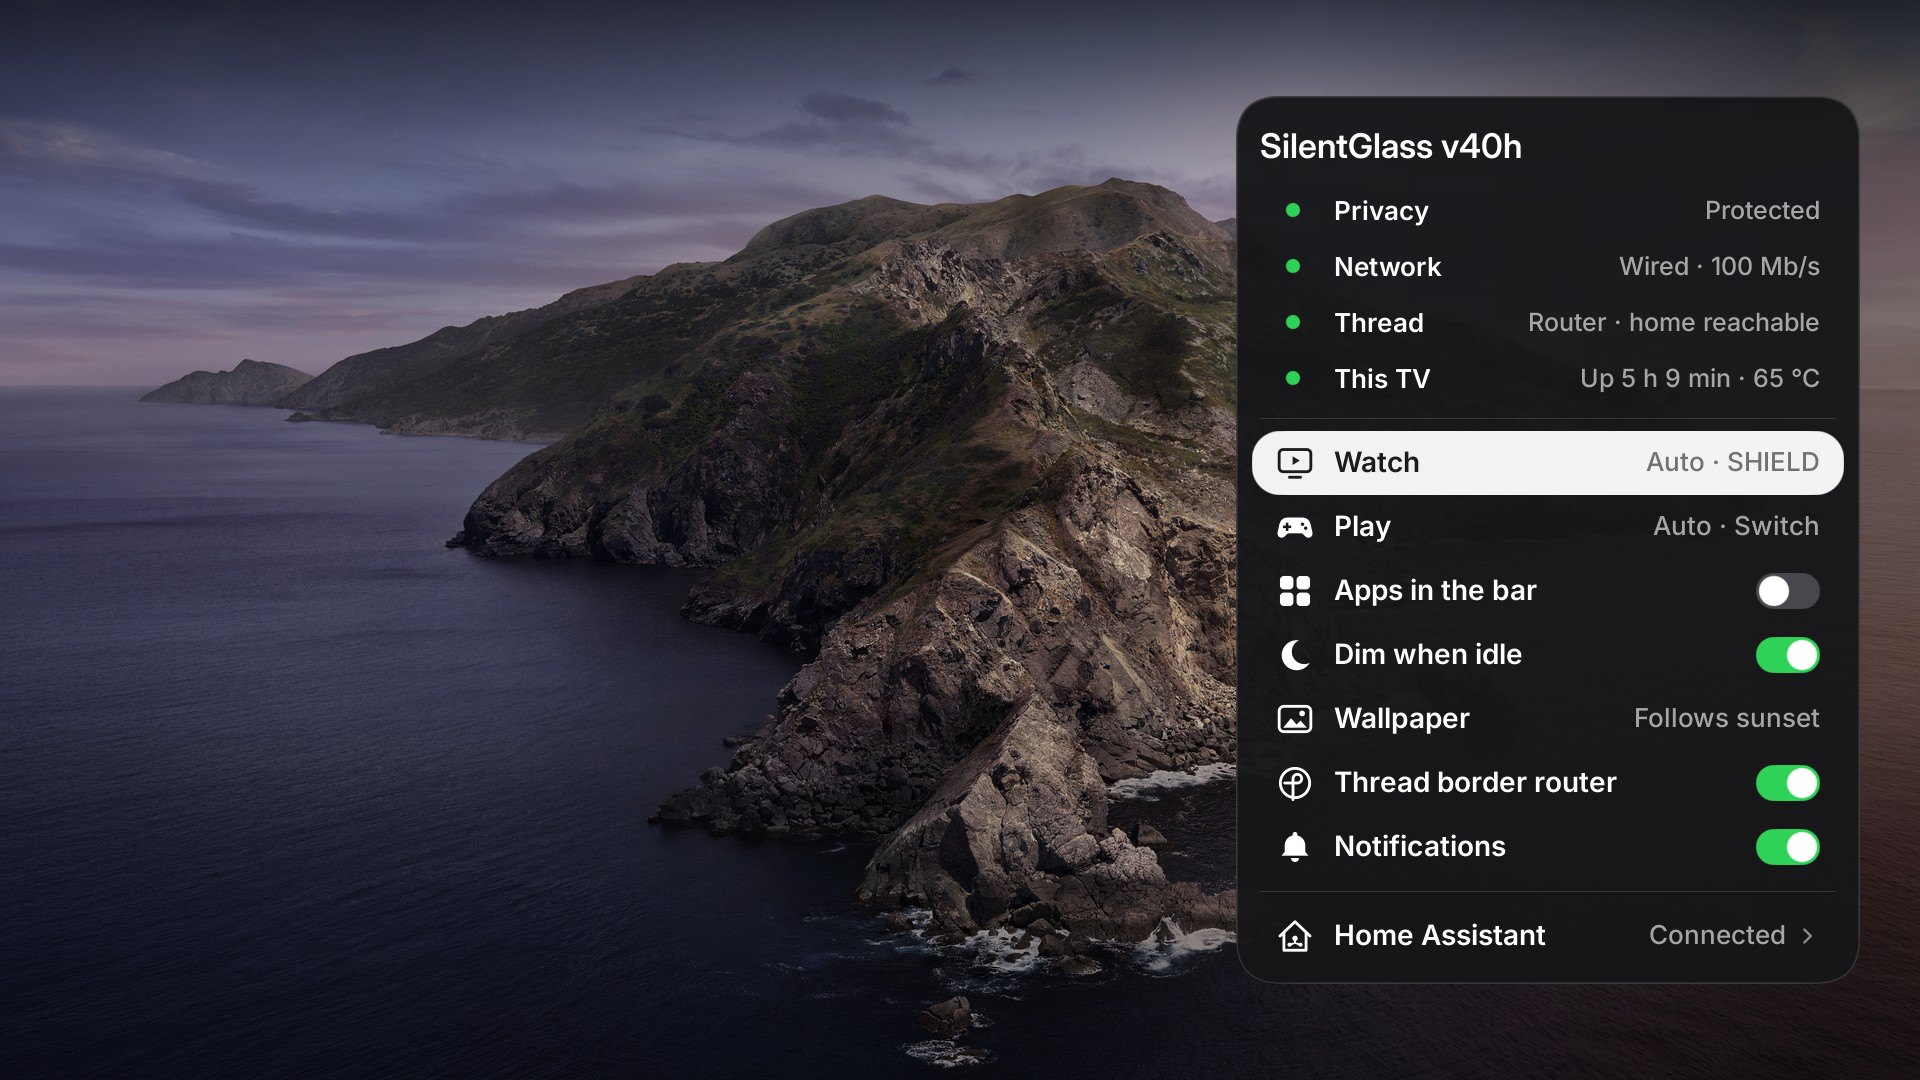
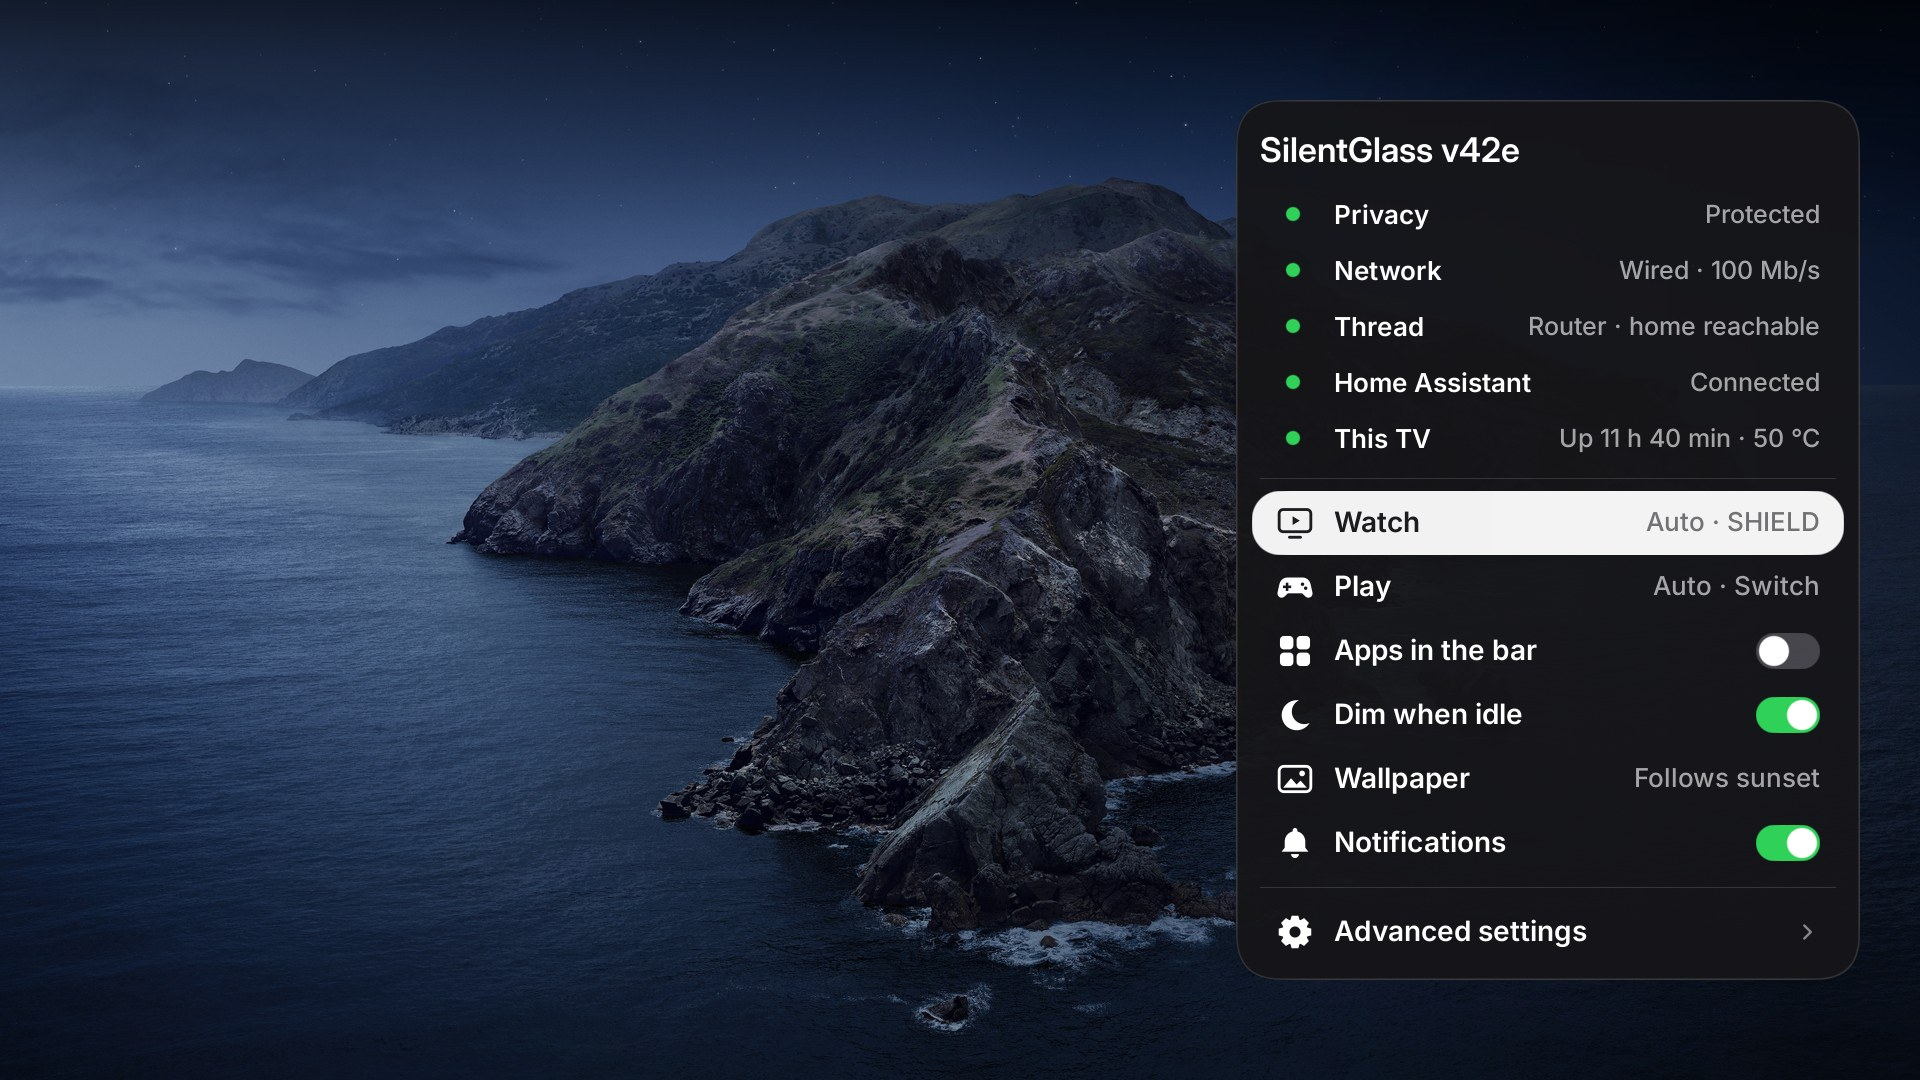
Docs: Thread switch and Home Assistant status moved (Info > Advanced settings); v42e screenshots
- Thread border router docs: the switch is on the phone page and in Home Assistant
- README / device record: Info shows Home Assistant status; Advanced settings opens the phone page
- otbr-join.sh message points at the new switch
- Info screenshot from the TV (v42e); setup mockup titled Advanced settings, sheet without the bar

diff --git a/tools/overlay_mockup.py b/tools/overlay_mockup.py
@@ -169,12 +169,13 @@ def controls(focus=0):
 def info(focus=0):
     green, grey = "#30d158", "#8e8e93"
     rows = [("d", "", "Privacy", "Protected", green), ("d", "", "Network", "Wired · 1 Gb/s", green),
-            ("d", "", "Thread", "Router · home reachable", green), ("d", "", "This TV", "Up 3 h · 41 °C", green), "hr",
+            ("d", "", "Thread", "Router · home reachable", green), ("d", "", "Home Assistant", "Connected", green),
+            ("d", "", "This TV", "Up 3 h · 41 °C", green), "hr",
             ("v", "tv", "Watch", "Auto · SHIELD"), ("v", "gamecontroller", "Play", "Auto · Nintendo Switch"),
             ("t", "apps", "Apps in the bar", False), ("t", "moon", "Dim when idle", True), ("v", "picture", "Wallpaper", "Follows sunset"),
-            ("t", "thread", "Thread border router", True), ("t", "bell", "Notifications", True), "hr",
-            ("a", "homeassistant", "Home Assistant", "Connected")]
-    return panel(rows, focus, title=("SilentGlass", "v40a · nothing sent anywhere"), opaque=True)
+            ("t", "bell", "Notifications", True), "hr",
+            ("a", "gear", "Advanced settings", "")]
+    return panel(rows, focus, title=("SilentGlass", "v42e · nothing sent anywhere"), opaque=True)
 
 
 def setup_sheet(qr):
@@ -185,11 +186,11 @@ def setup_sheet(qr):
             f'<div class="glass" style="left:{x}px;top:{y}px;width:{w}px;height:{h}px;border-radius:44px;background:rgba(22,22,26,.96)">'
             f'<div style="position:absolute;left:48px;top:48px;width:340px;height:340px;border-radius:28px;background:#fff;display:flex;align-items:center;justify-content:center">{qr_img}</div>'
             f'<div style="position:absolute;left:430px;top:52px;right:48px">'
-            f'<div style="font-family:QID;font-size:44px;line-height:1.1">Set up Home Assistant</div>'
+            f'<div style="font-family:QID;font-size:44px;line-height:1.1">Advanced settings</div>'
             f'<div style="font-size:27px;opacity:.7;margin-top:18px;line-height:1.35">Scan with your phone, or open<br><b style="opacity:1;font-weight:600">192.168.1.50:7680</b> and enter</div>'
             f'<div style="font-family:QID;font-size:72px;letter-spacing:10px;margin-top:22px">482 913</div></div>'
             f'<div style="position:absolute;left:48px;right:48px;bottom:40px;display:flex;align-items:center;gap:14px;font-size:26px;opacity:.85">'
-            f'<span style="width:14px;height:14px;border-radius:7px;background:#ff9f0a"></span>Waiting for your phone…'
+            f'<span style="width:14px;height:14px;border-radius:7px;background:#30d158"></span>Saved. Connected to your broker.'
             f'<span style="margin-left:auto;opacity:.6">Back to close</span></div></div>')
 
 
@@ -237,7 +238,7 @@ def main():
              "bar": bar(0),
              "info": bar(6) + info(5),
              "backdrop": backdrop() + bar(0),
-             "setup": bar(6) + setup_sheet(ROOT / ".local/overlay-mock/qr.svg"), "inputs": bar(3) + inputs_pop(), "apps": bar(5) + apps_pop(apps), "controls": controls(0)}
+             "setup": setup_sheet(ROOT / ".local/overlay-mock/qr.svg"), "inputs": bar(3) + inputs_pop(), "apps": bar(5) + apps_pop(apps), "controls": controls(0)}
     for name, body in pages.items():
         (out / f"{name}.html").write_text(page(name, body, bg))
         subprocess.run(["chromium", "--headless=new", "--disable-gpu", "--no-sandbox", "--hide-scrollbars",

diff --git a/devices/s90d/thread-border-router.md b/devices/s90d/thread-border-router.md
@@ -14,8 +14,8 @@ Status on the tested TV (firmware in [README.md](README.md)): router in the home
 upstream OTBR, LAN -> Thread forwarding proven with a real packet, survives reboots (verified across
 several owner reboots) and **through standby** since the standby fix in section 6 (before it, the radio lost power
 whenever the TV was switched off, so the TV only routed while it was on). Thread status
-is on SilentGlass Home's **Info** tab ("Home network: Connected / Forwarding off"), with a switch to stop and start it
-(section 5).
+is on SilentGlass's **Info** panel ("Router · home reachable"); the switch to stop and start it is on the phone's
+Advanced settings page and in Home Assistant (section 5).
 
 ## 1. Radio firmware (once, owner approval)
 
@@ -68,7 +68,7 @@ iptables) and then:
 | `quiet-otbr-cpcd` | waits until Samsung's boot-time `iot-hub-control-setup.service` has run and finished, recreates `/tmp/iot_factory_data`, runs the hub `cpcd` (921600, socket `/dev/shm/cpcd/cpcd_0`) |
 | `quiet-otbr-agent` | waits for the cpcd socket, runs the private agent `-s -B <backbone> -d 4 "spinel+cpc://cpcd_0?iid=2"` (auto-attaches to the saved network); the backbone is the default-route interface (`eth0` wired, `wlan0` Wi-Fi), waited for up to 2 min |
 | `quiet-otbr-forward` | waits for `wpan0` and Samsung's `matter-setup.path`, then touches `/tmp/matter_setup` every 10 s until IPv6 forwarding is on |
-| `quiet-otbr-switch.path` / `.service` | SilentGlass Home's Info switch (section 5): applies a flip at once |
+| `quiet-otbr-switch.path` / `.service` | the border router switch (section 5): applies a flip at once |
 
 Why each wait exists:
 
@@ -102,7 +102,7 @@ cat ~/.config/quiet-tizen/thread.env device/thread-border-router/otbr-join.sh | 
 
 It refuses to replace an attached network without `FORCE=1` and never echoes the dataset. Do not add a prefix:
 the TV favors the existing OMR prefix. It attaches as a child and becomes a router within ~2 minutes. The network
-is saved in `/opt/var/lib/thread`, so every later start (boot or the Info switch) rejoins by itself.
+is saved in `/opt/var/lib/thread`, so every later start (boot or the switch) rejoins by itself.
 
 ## 4. Verify (mesh membership is not border routing)
 
@@ -113,15 +113,17 @@ is saved in `/opt/var/lib/thread`, so every later start (boot or the Info switch
   `ip6tables -nvx -L OTBR_FORWARD_CHAIN` eth0 -> wpan0 counter rise. `ot-ctl ping` from the TV only proves
   mesh reachability.
 
-## 5. Info page switch (SilentGlass Home)
+## 5. The on/off switch
 
-SilentGlass Home's Info page shows **Thread border router** with a switch, only on TVs where these units are installed.
+On TVs where these units are installed, the phone's **Advanced settings** page (Info > Advanced settings) shows a
+**Border router** switch, and Home Assistant gets `switch.<tv>_thread_border_router`. Both go through the
+SilentGlass bridge (unit comments still call it the Info switch, where it used to be):
 
-- Off: SilentGlass Home creates `thread-off` in its own data directory
+- Off: the bridge creates `thread-off` in SilentGlass's data directory
   (`/opt/usr/home/owner/apps_rw/com.samsung.tv.bixby-promotion/data`, persistent; the owner's systemd may read it)
   and rewrites `thread-switch`. `quiet-otbr-switch.path` sees the rewrite and stops forward, agent, then cpcd
   (under 2 s). The TV leaves the mesh as a router; other border routers carry it.
-- On: SilentGlass Home deletes the marker and rewrites `thread-switch`; the units start and rejoin the saved network
+- On: the bridge deletes the marker and rewrites `thread-switch`; the units start and rejoin the saved network
   (router again in ~10 s when the mesh still remembers it, up to ~2 min otherwise).
 - Reboots: every daemon has `ConditionPathExists=!.../thread-off`, so the choice holds at boot and a manual
   start while off is skipped (a skipped condition never triggers `Restart=`).
@@ -145,7 +147,7 @@ until the TV is switched on again. Two separate things do it, both found on the 
   (`org.tizen.system.storage.BlockManager.UsbDeviceChangePortPower`, int32 1; it records the caller's pid and drops
   the request when that process exits - kernel log: `[STORAGED] usb port power on:(1) by /usr/bin/dotnet(<pid>)`).
   `quiet-otbr-usbpower` is a 7 KB .NET program (`usb-power-keeper/`, run by the TV's own `dotnet`, ~16 MB RSS) that
-  makes the request, stays alive and repeats it every 5 minutes. It is part of the Info switch like the other units.
+  makes the request, stays alive and repeats it every 5 minutes. It is part of the switch like the other units.
 
 Install on an existing border router: `otbr-standby-update.sh`; inverse `otbr-standby-restore.sh`. New installs
 (`otbr-install.sh`) include both; `otbr-restore.sh` undoes both.

diff --git a/README.md b/README.md
@@ -26,9 +26,9 @@ No full-screen pages: everything is a bar, a menu or a panel over the picture (t
 - **Controls** is a panel on the right, so the picture stays in view while you change brightness, contrast, volume,
   picture and sound mode, sound output, Game Mode (Automatic / Always / Never), sleep timer and Pixel Shift; plus
   Ambient, Bluetooth, Network and the TV's own settings.
-- **Info** is a near-opaque panel: privacy, network, Thread and TV status, then SilentGlass's settings - which input
-  Watch and Play open, apps in the bar, dim when idle, wallpaper, the Thread border router, notifications, and
-  Home Assistant setup.
+- **Info** is a near-opaque panel: privacy, network, Thread, Home Assistant and TV status, then SilentGlass's
+  settings - which input Watch and Play open, apps in the bar, dim when idle, wallpaper, notifications - and
+  **Advanced settings**, which opens the phone page.
 - **With nothing to draw over** (no signal, or Home from Ambient or an app), a day/night wallpaper and the time sit
   behind the bar; after 5 idle minutes it fades to a dim drifting clock (OLED care).
 - Built for anyone in the house: visual, few words, no "On/Off" jargon, 60 fps, nothing truncated.
@@ -70,7 +70,7 @@ Guide: [devices/s90d/ha-bridge.md](devices/s90d/ha-bridge.md).
 The S90D has a Thread radio for Samsung's SmartThings hub, which can only create its *own* network. SilentGlass runs
 the radio with OpenThread as a standalone **border router that joins your existing network** - Home Assistant,
 Apple Home, Google Home or any OTBR - with the SmartThings hub left off. Join from the phone setup page (it can read
-Home Assistant's preferred network for you); it keeps running in standby and has a switch in Info.
+Home Assistant's preferred network for you); it keeps running in standby, with an on/off switch on the phone page and in Home Assistant.
 Guide: [devices/s90d/thread-border-router.md](devices/s90d/thread-border-router.md).
 
 ### Privacy

diff --git a/devices/s90d/README.md b/devices/s90d/README.md
@@ -46,9 +46,9 @@ playing; nothing touches the video plane.
 - **Controls** (panel on the right, replacing the bar; translucent so the picture shows the change): Brightness,
   Contrast, Volume (Select mutes); Picture Mode, Sound Mode, Sound Output, Game Mode (Automatic / Always / Never -
   the TV's single three-way `game-mode-auto`), Sleep Timer, Pixel Shift; Ambient, Bluetooth, Network, TV Settings.
-- **Info** (panel on the right, near-opaque): Privacy, Network, Thread and This TV status (refreshed every 3 s), then
-  the settings below, then **Home Assistant** (phone setup sheet: QR code + 6-digit code; see
-  [ha-bridge.md](ha-bridge.md)).
+- **Info** (panel on the right, near-opaque): Privacy, Network, Thread, Home Assistant and This TV status (refreshed
+  every 3 s), then the settings below, then **Advanced settings** (phone sheet: QR code + 6-digit code; the phone
+  page also has these settings, notifications, the Thread border router and MQTT - see [ha-bridge.md](ha-bridge.md)).
 - **Backdrop**: with nothing to draw over (no signal, or Home from Ambient or an app) the app's own window shows the
   wallpaper and time behind the bar; Back there goes to the last input. After 5 idle minutes it fades to a dim
   drifting clock (OLED care). It is hidden whenever anything else is in front, so it never flashes over the picture.
@@ -61,7 +61,8 @@ playing; nothing touches the video plane.
 
 ### Settings
 
-On the TV (Info; saved as `silentglass-prefs.txt` in the app's data directory, so they survive reboots; an older
+On the TV (Info) or the phone (Advanced settings; SilentGlass reloads the file when the phone saves it). Saved as
+`silentglass-prefs.txt` in the app's data directory, so they survive reboots; an older
 `quiet-home-prefs.txt` is read once and replaced):
 
 | Setting | Default | Does |

diff --git a/devices/s90d/ha-bridge.md b/devices/s90d/ha-bridge.md
@@ -21,7 +21,7 @@ built-in MQTT 3.1.1 client. It runs as the TV's owner user from a systemd user u
 | `switch.<tv>_notifications` | banners on the TV (see Notifications); off drops them |
 | `sensor.<tv>_app` | foreground app: SilentGlass Home, Ambient, Samsung Home, or the input's name while watching it (also while SilentGlass only shows a banner over it) |
 | `sensor.<tv>_thread_role` | router / child / leader / detached / off (only if the border router is installed) |
-| `switch.<tv>_thread_border_router` | same as the Info switch; survives reboots |
+| `switch.<tv>_thread_border_router` | same as the phone page's switch; survives reboots |
 | `button.<tv>_home`, `button.<tv>_ambient` | open SilentGlass Home / Ambient |
 | `sensor.<tv>_chip_temperature`, `sensor.<tv>_free_memory` | diagnostics |
 
@@ -98,7 +98,7 @@ is root-only, and the TV's remote WebSocket ignores clients on 127.0.0.1.
   restarts (`homeassistant/status`).
 - Commands are a fixed list; there is no shell. Input: `launch_app com.samsung.tv.bixby-promotion quiet_source <id>`
   (the launcher only accepts an input it lists). Home / Ambient: `launch_app`. Thread: writes or removes the
-  `thread-off` marker and touches `thread-switch`, exactly like the Info switch.
+  `thread-off` marker and touches `thread-switch`, exactly like the phone page's switch.
 - Topics: `silentglass/s90d/...`; discovery under `homeassistant/<component>/silentglass_s90d/...`.
 
 ## Set up from a phone
